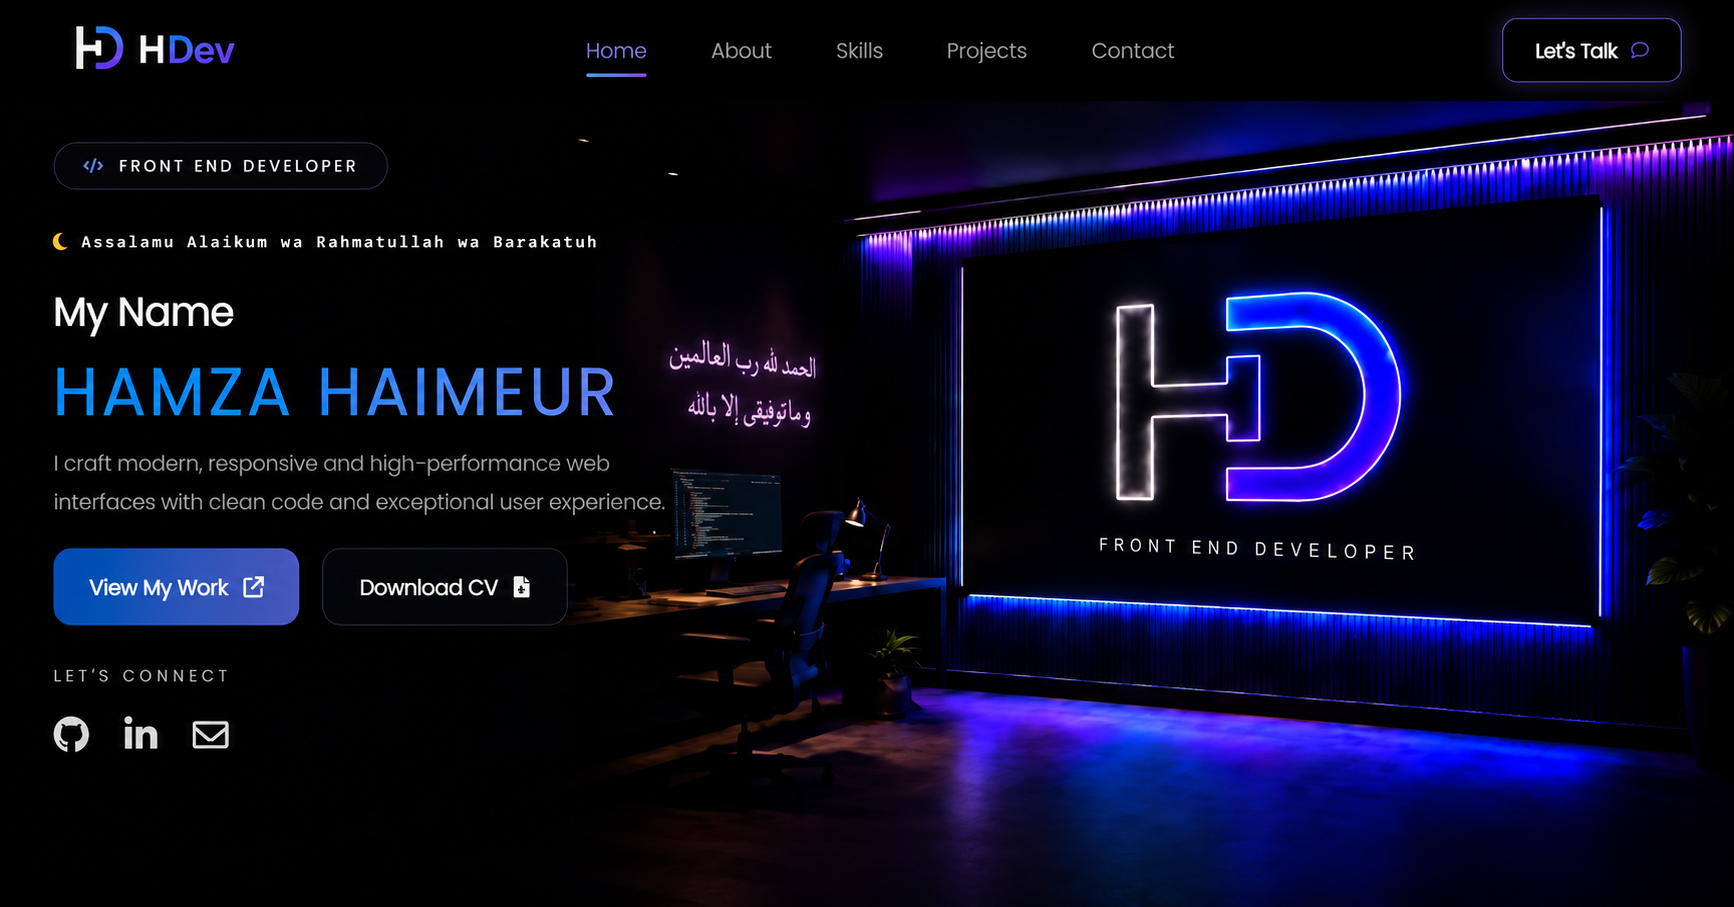
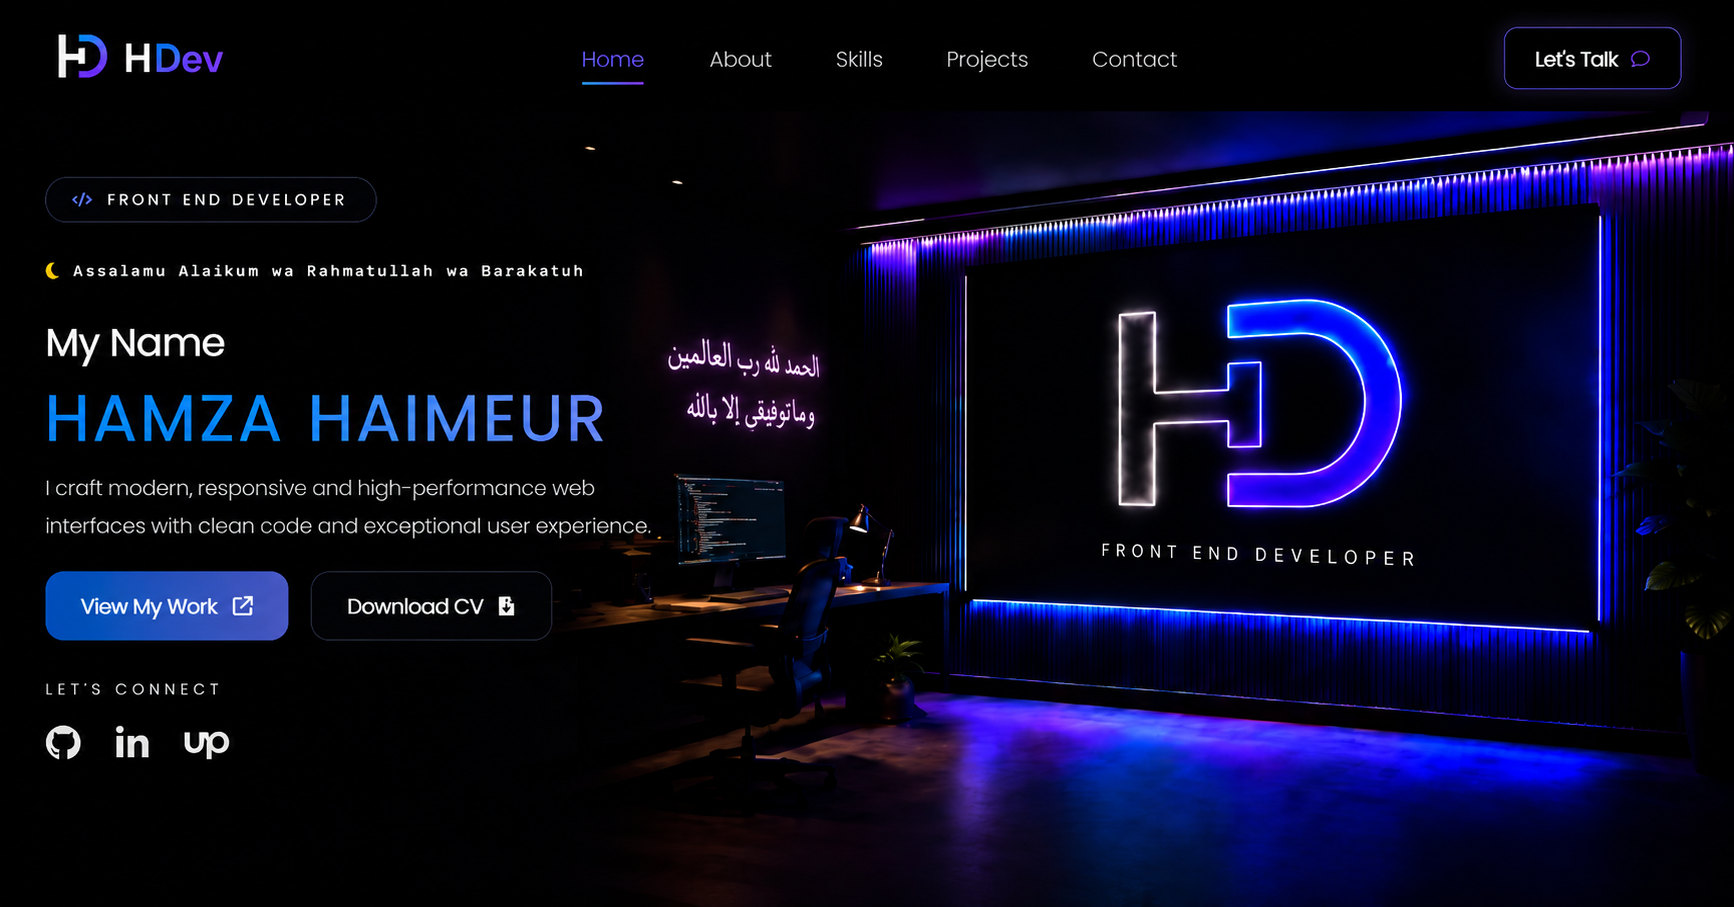
Enhance Open Graph and Twitter metadata, update preview image, and improve UI styles

diff --git a/index.html b/index.html
@@ -18,7 +18,7 @@
   >
   <meta
     property="og:description"
-    content="Explore the portfolio of Hamza Haimeur, a Front-End Developer passionate about building modern, responsive, and high-performance websites."
+    content="Modern, responsive, and high-performance websites crafted by Front-End Developer Hamza Haimeur."
   >
   <meta
     property="og:url"
@@ -26,7 +26,7 @@
   >
   <meta
     property="og:site_name"
-    content="Hamza Haimeur Portfolio"
+    content="HDev"
   >
   <meta
     property="og:locale"
@@ -49,6 +49,10 @@
     content="image/png"
   >
   <meta
+    property="og:image:alt"
+    content="Hamza Haimeur Front-End Developer Portfolio Preview"
+  >
+  <meta
     name="twitter:card"
     content="summary_large_image"
   >
@@ -58,11 +62,15 @@
   >
   <meta
     name="twitter:description"
-    content="Explore the portfolio of Hamza Haimeur, a Front-End Developer passionate about building modern, responsive, and high-performance websites."
+    content="Modern, responsive, and high-performance websites crafted by Front-End Developer Hamza Haimeur."
   >
   <meta
     name="twitter:image"
     content="https://hamzahaimeur.vercel.app/assets/preview.png"
+  >
+  <meta
+    name="twitter:image:alt"
+    content="Hamza Haimeur Front-End Developer Portfolio Preview"
   >
   <link rel="icon" type="image/png" href="/assets/brand/brand-2.png">
   <link rel="stylesheet" href="css/main.css">
@@ -207,8 +215,8 @@
             <i class="fa-brands fa-linkedin-in"></i>
           </a>
 
-          <a href="#contact">
-            <i class="fa-regular fa-envelope"></i>
+          <a href="#" target="_blank" rel="noopener noreferrer" aria-label="Upwork">
+            <i class="fa-brands fa-upwork"></i>
           </a>
 
         </div>
@@ -637,7 +645,7 @@
 
               <a href="#" target="_blank" rel="noopener noreferrer">
                 Buy on Upwork
-                <i class="fa-solid fa-briefcase"></i>
+                <i class="fa-brands fa-upwork"></i>
               </a>
             </div>
 
@@ -834,7 +842,7 @@
           <div class="socials">
             <a href="https://github.com/hamzahaimeur" target="_blank" rel="noopener noreferrer"><i class="fa-brands fa-github"></i></a>
             <a href="https://www.linkedin.com/in/hamzahaimeur/" target="_blank" rel="noopener noreferrer"><i class="fa-brands fa-linkedin-in"></i></a>
-            <a href="#contact"><i class="fa-regular fa-envelope"></i></a>
+            <a href="#" target="_blank" rel="noopener noreferrer" aria-label="Upwork"><i class="fa-brands fa-upwork"></i></a>
           </div>
 
         </div>
@@ -987,8 +995,8 @@
               <i class="fa-brands fa-linkedin-in"></i>
             </a>
 
-            <a href="#contact">
-              <i class="fa-regular fa-envelope"></i>
+            <a href="#" target="_blank" rel="noopener noreferrer" aria-label="Upwork">
+              <i class="fa-brands fa-upwork"></i>
             </a>
 
           </div>

diff --git a/css/main.css b/css/main.css
@@ -3540,7 +3540,7 @@ li a:hover {
   justify-content: center;
   gap: .7rem;
 
-  padding: .7rem;
+  padding: .6rem;
 
   border-radius: .9rem;
   text-decoration: none;
